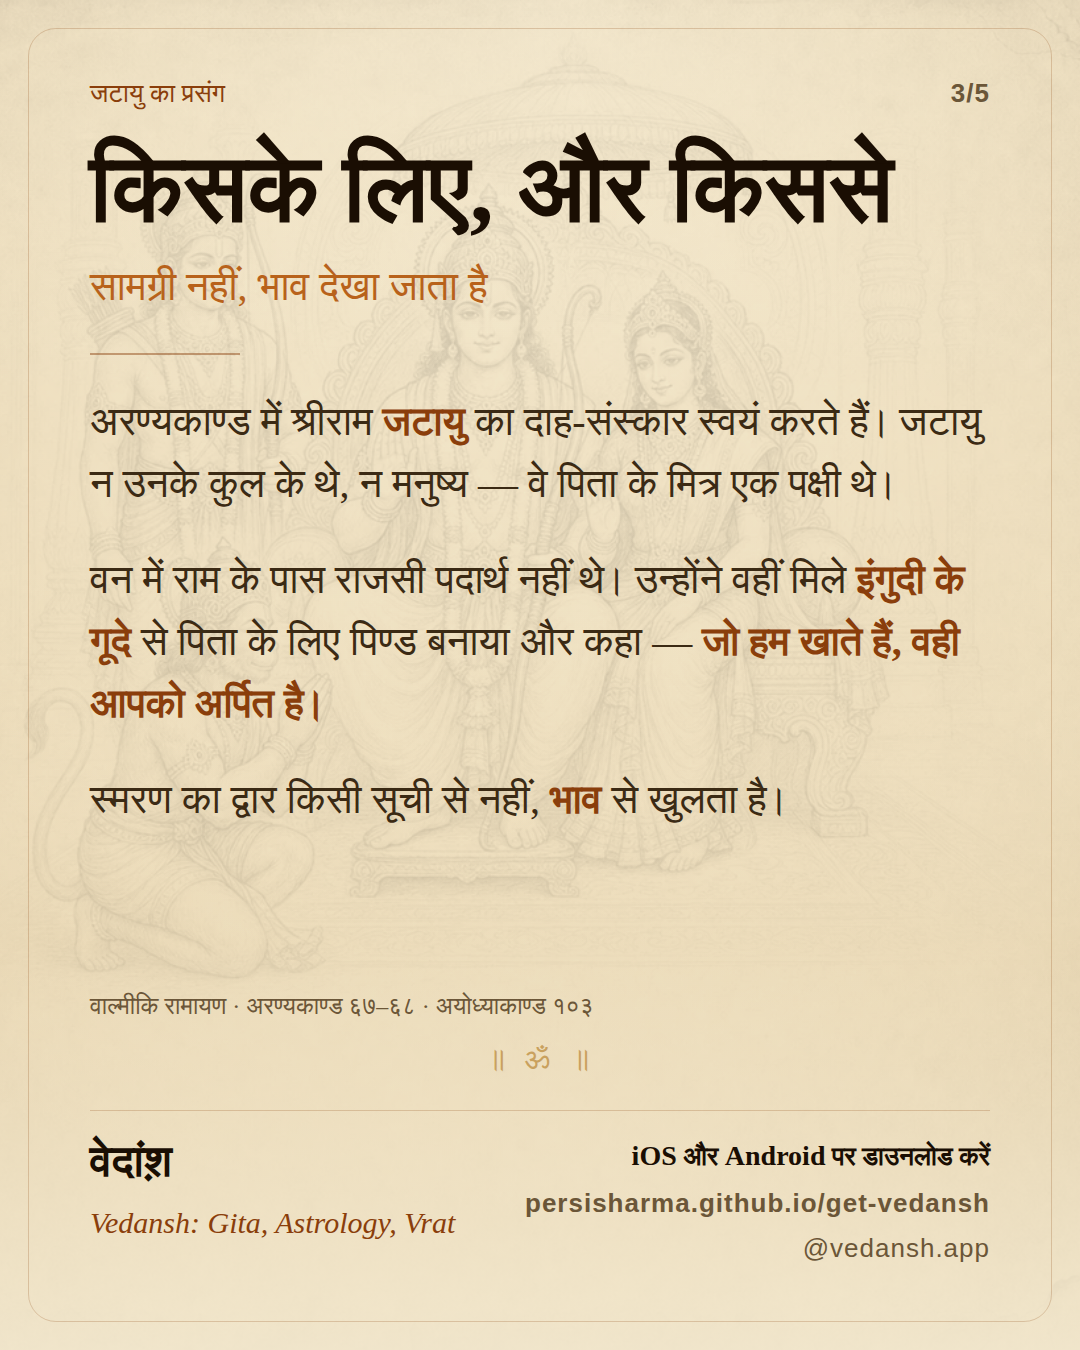
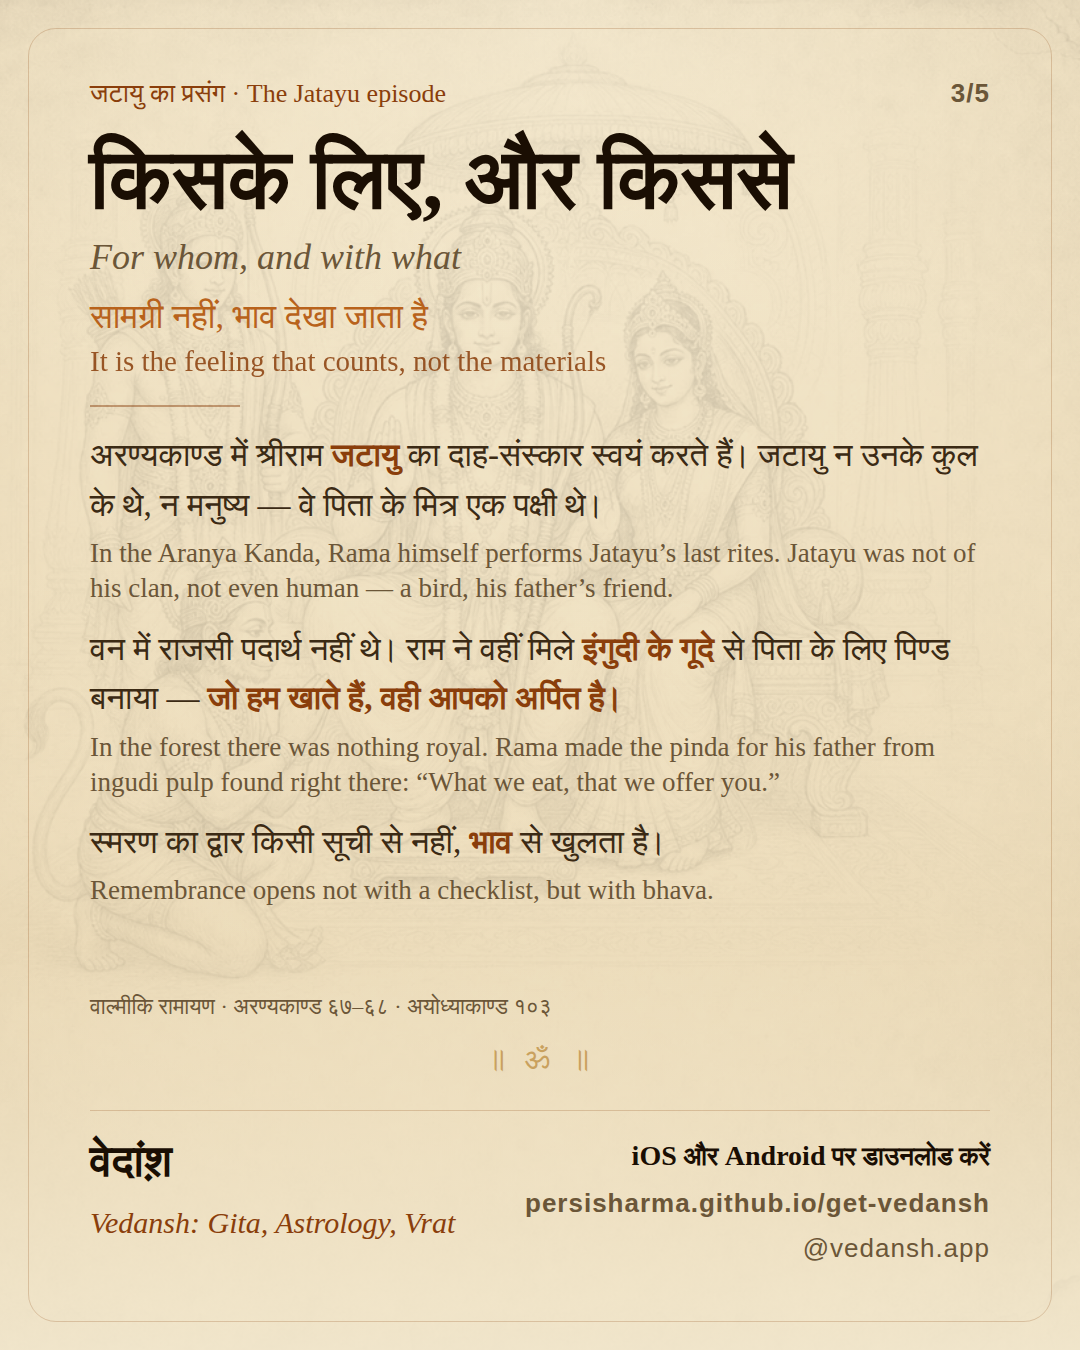
marketing(instagram): Pitru Paksha carousel — bilingual slides, Gaya story as "believed"
Every slide now carries a Devanagari lead with an English support line
(title, subtitle, each paragraph, CTA items). Slide 4 drops the "not in
Valmiki" aside and states the Rama–Sita–Gaya episode as माना जाता है /
"it is believed". Caption gets an English block; alt text updated.

Claude-Session: https://claude.ai/code/session_01UWivEE5iQUqCiS2PaVJiY4

Changed region(s): [[0.0611, 0.0622, 0.9167, 0.6844], [0.0917, 0.7156, 0.5194, 0.7778]]

diff --git a/marketing/instagram/posts/pitru-paksha-2026.md b/marketing/instagram/posts/pitru-paksha-2026.md
@@ -6,8 +6,8 @@ Render: `node ../make-carousel.mjs pitru-paksha-2026` (see the header of that sc
 Amavasya). Best on 26–27 Sep, while people are searching; still valid any day of the paksha.
 
 **Place hook:** Gaya, Bihar — the Pitru Paksha Mela at Vishnupad / Falgu runs for exactly this
-fortnight. Slide 4 keeps the Rama–Sita–Gaya story honestly labelled as गया-माहात्म्य / लोक-परम्परा,
-not Valmiki — same stance as `mobile/src/data/pitru/kathas.ts`.
+fortnight. Slide 4 gives the Rama–Sita–Gaya story as "माना जाता है / it is believed" (Gaya tradition).
+Every slide is bilingual: Devanagari lead, English support line.
 
 ---
 
@@ -24,7 +24,7 @@ not Valmiki — same stance as `mobile/src/data/pitru/kathas.ts`.
 • और वन में इंगुदी के गूदे का पिण्ड: "जो हम खाते हैं, वही आपको अर्पित है।"
 
 और आज? गया (बिहार) में फल्गु के तट पर, विष्णुपद के पास, इसी पखवाड़े लाखों लोग यही कर रहे हैं —
-पितृपक्ष मेला · 26 सितम्बर – 10 अक्टूबर 2026। लोक-परम्परा कहती है कि श्रीराम और सीता भी दशरथ के लिए यहीं आए थे।
+पितृपक्ष मेला · 26 सितम्बर – 10 अक्टूबर 2026। माना जाता है कि श्रीराम और सीता भी दशरथ के लिए यहीं आए थे।
 
 सामग्री नहीं, भाव देखा जाता है।
 
@@ -33,7 +33,15 @@ not Valmiki — same stance as `mobile/src/data/pitru/kathas.ts`.
 
 पितृ पक्ष परिचय, तिथि से श्राद्ध का दिन, पितृ स्मरण reminder और रामायण की कथाएँ — Vedansh में, मुफ़्त, ऑफ़लाइन। लिंक बायो में।
 
-#पितृपक्ष #श्राद्ध #तर्पण #गया #रामायण
+—
+
+Pitru Paksha begins — what did Shri Rama offer his father?
+Not gold, not grain: a cupped handful of water, facing south. That is the only form the rite takes in the Ramayana — for Dasharatha at the Mandakini, for Jatayu (a bird, not even kin) at the Godavari, with a pinda of forest ingudi: "what we eat, that we offer you."
+And this fortnight, on the banks of the Falgu in Gaya, lakhs are doing exactly that at the Pitru Paksha Mela (26 Sep – 10 Oct 2026). It is believed Rama and Sita came here too.
+It is the feeling that counts, not the materials.
+Save it. Send it to whoever in your family remembers their ancestors this paksha 🙏
+
+#पितृपक्ष #श्राद्ध #तर्पण #गया #रामायण #PitruPaksha
 ```
 
 > First line is the searchable phrase (`पितृ पक्ष`, `श्रीराम`). Dates and the place are in the
@@ -44,7 +52,7 @@ not Valmiki — same stance as `mobile/src/data/pitru/kathas.ts`.
 1. Hook — "पितृ पक्ष 26 सितम्बर से 10 अक्टूबर 2026। श्रीराम ने पिता को क्या दिया था? सोना नहीं, अन्न नहीं, अञ्जलि भर जल। पीछे राम दरबार का रेखाचित्र।"
 2. जल ही क्यों — "रामायण में पितृ-कर्म का एक ही रूप: अञ्जलि भर जल, दक्षिण दिशा, भाव। मन्दाकिनी, गोदावरी और गंगा के प्रसंग। पीछे गंगा का रेखाचित्र।"
 3. किसके लिए, और किससे — "श्रीराम जटायु का दाह-संस्कार स्वयं करते हैं; वन में इंगुदी के गूदे का पिण्ड। स्मरण का द्वार भाव से खुलता है।"
-4. फल्गु का तट — "गया, बिहार में पितृपक्ष मेला, विष्णुपद और फल्गु का तट। लोक-परम्परा में श्रीराम-सीता का दशरथ के लिए पिण्डदान।"
+4. फल्गु का तट — "गया, बिहार में पितृपक्ष मेला, विष्णुपद और फल्गु का तट। माना जाता है कि श्रीराम-सीता ने यहाँ दशरथ के लिए पिण्डदान किया।"
 5. CTA — "Vedansh ऐप: पितृ पक्ष परिचय, तिथि से श्राद्ध का दिन, पितृ स्मरण reminder, रामायण की कथाएँ। मुफ़्त, ऑफ़लाइन। persisharma.github.io/get-vedansh"
 
 ## Stories to pair (optional, same day)
